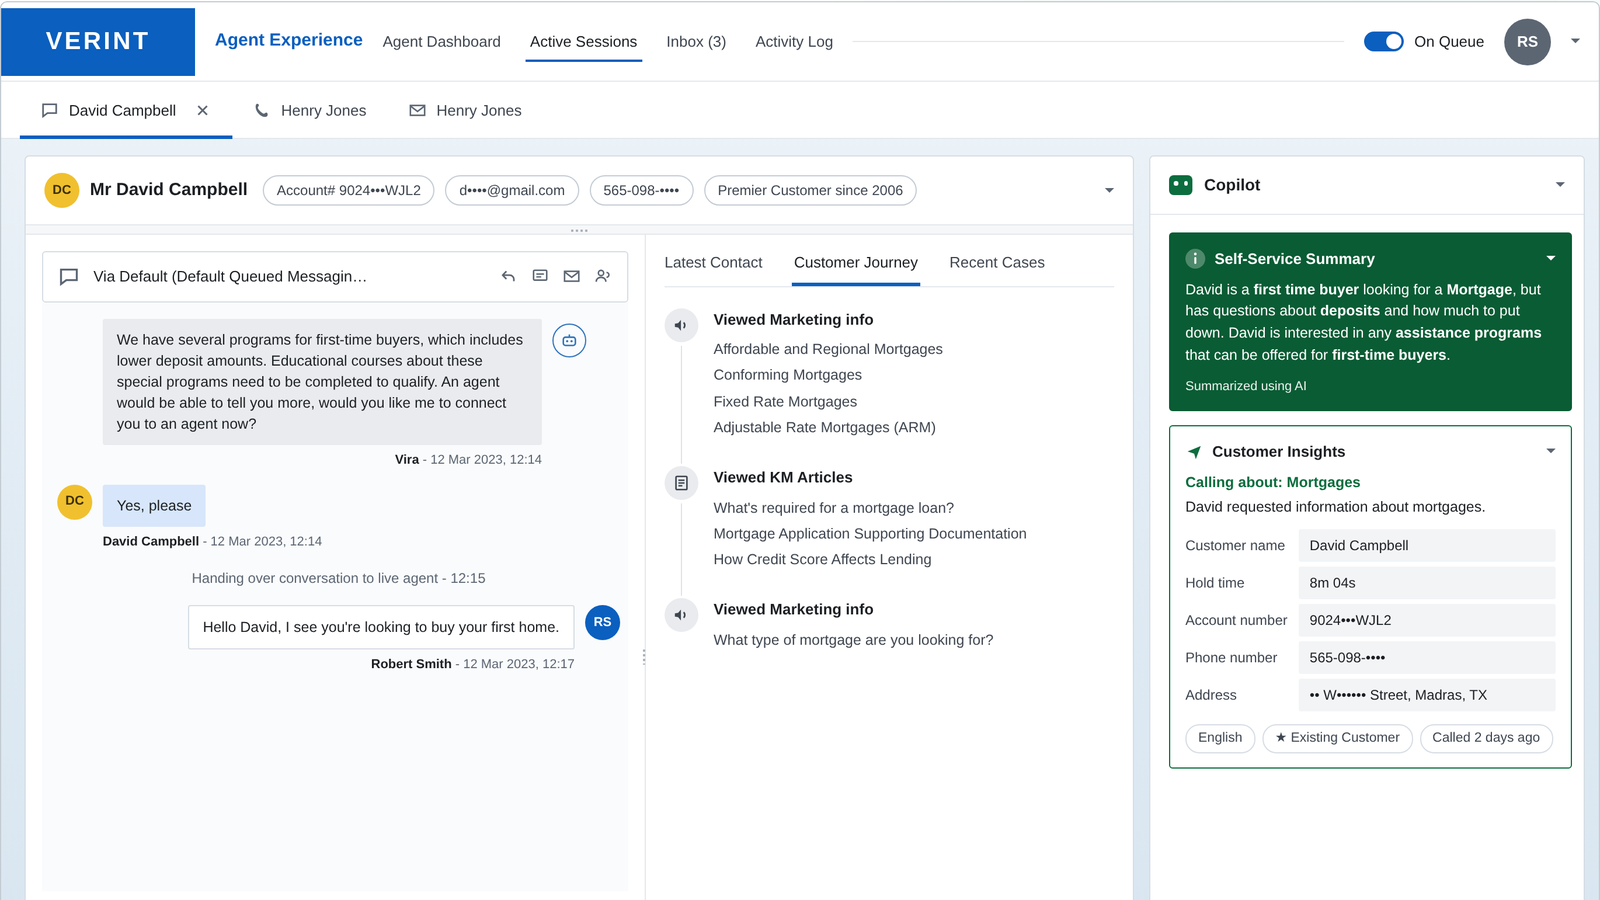
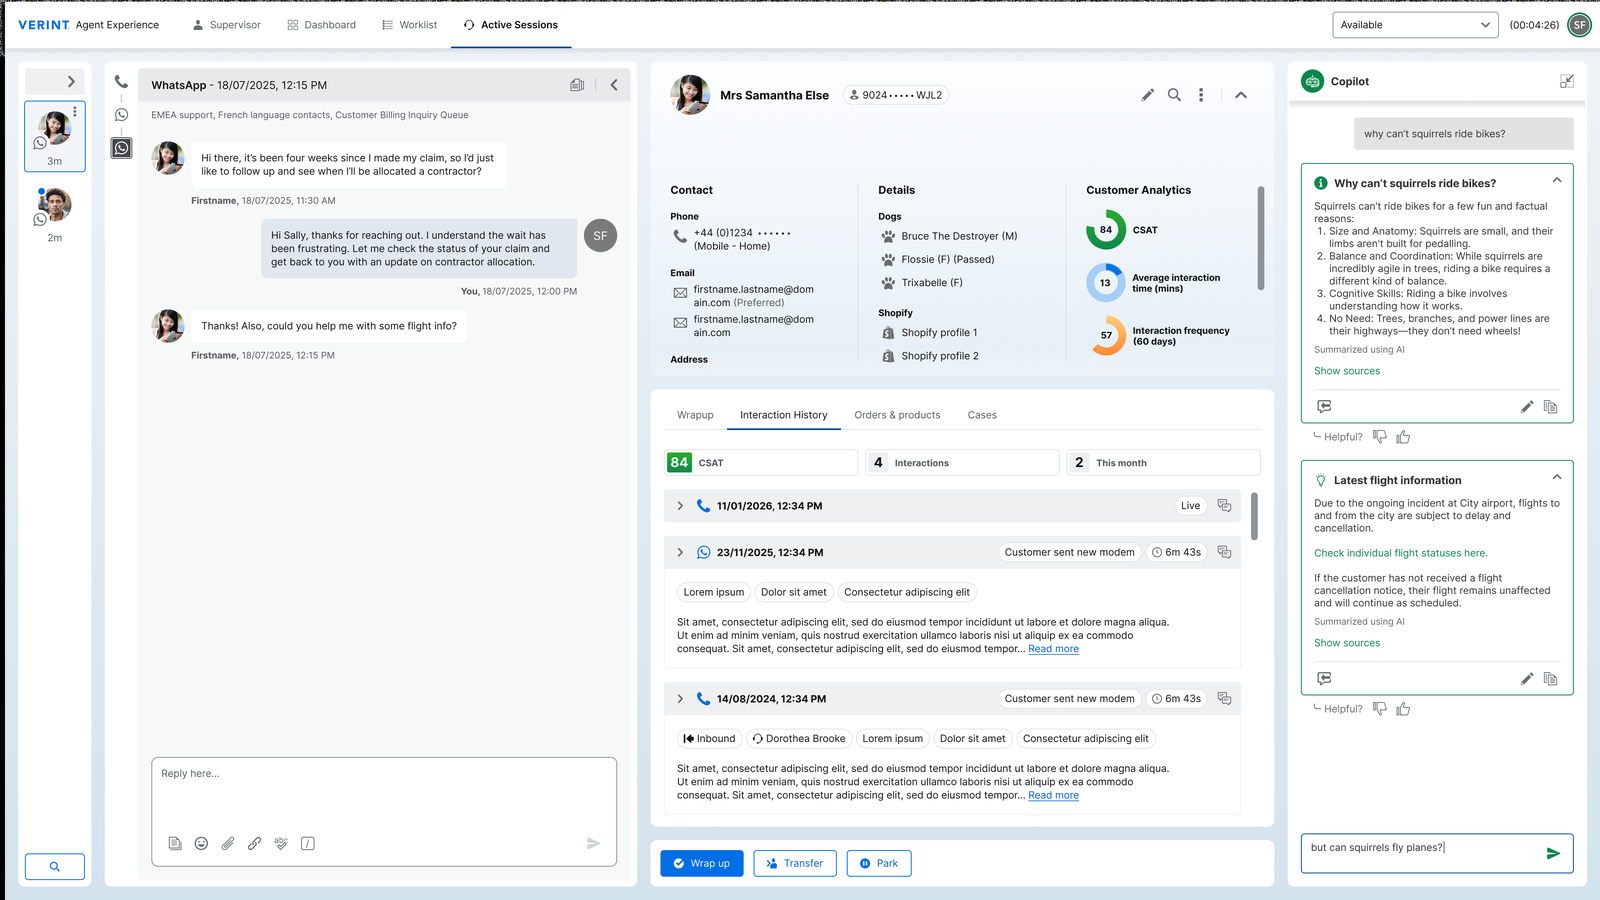
Copilot: Ori's shipped screenshot on the Shipped side; labels in sentence case
Shipped side is Ori's export of the shipped desktop, masked: account number,
phone number, and the test note under the customer name removed. Replaces
the player still used in e477504. Caption and alt text back to describing
that screen.

Labels read "Hackathon" and "Shipped" as written instead of all caps:
text-transform none, no tracking, 12px/700, page-local.

The address mask in the player's Customer Insights card stays.

Claude-Session: https://claude.ai/code/session_01UR5wgWCykGrjr29FfUPuRZ

diff --git a/cases/copilot/index.html b/cases/copilot/index.html
@@ -41,8 +41,8 @@
   }
 }
 </script>
-<link rel="stylesheet" href="../../src/tokens.css?v=202609301108"/>
-<link rel="stylesheet" href="../shared/case-study.css?v=202609301108"/>
+<link rel="stylesheet" href="../../src/tokens.css?v=202609301118"/>
+<link rel="stylesheet" href="../shared/case-study.css?v=202609301118"/>
 <script>try{if(localStorage.getItem('ori-theme')==='dark')document.documentElement.setAttribute('data-theme','dark')}catch(e){}
 if(window.self!==window.top){var _s=document.createElement('style');_s.textContent='*{cursor:none!important}';document.head.appendChild(_s);}</script>
 <style>
@@ -73,6 +73,10 @@ if(window.self!==window.top){var _s=document.createElement('style');_s.textConte
 .cmp-wrapup .cmp-label{top:0}
 .cmp-wrapup .cmp-label-a{left:0}
 .cmp-wrapup .cmp-label-b{right:0}
+/* "Hackathon" and "Shipped" as written, not all caps: Ori's call. The shared
+   label is 10px uppercase with tracking; sentence case needs neither the
+   tracking nor the small size to read as a label. */
+.cmp-wrapup .cmp-label{text-transform:none;letter-spacing:0;font-size:12px;font-weight:700}
 
 /* Inside a section the figure's own 26px is the gap; the seam's 22px on top
    of it would make this the one figure on the page set further off its text. */
@@ -476,14 +480,10 @@ if(window.self!==window.top){var _s=document.createElement('style');_s.textConte
            messaging handle and date of birth, and the test note under the
            customer name removed. Sources were Ori's exports of Sept 30.
 
-           SHIPPED SIDE (Sept 30): a still of the player below at step 5, the
-         handover, captured at its native 1370x898 at 2x and cut to 16:9 by
-         trimming the empty reply box at the bottom. The player is rebuilt
-         from the shipped Figma frames and plays the same David Campbell
-         mortgage conversation as the hackathon screenshot, so both halves
-         show the same moment: the hackathon's Chat Summary against the
-         shipped Self-Service Summary and Customer Insights. The raw shipped
-         export Ori sent was not used; its Copilot panel held test content.
+           SHIPPED SIDE: Ori's export of the shipped agent desktop (Sept 30),
+         masked before use: account number and phone number, and the test
+         note under the customer name ("This customer is blind!!!" plus lorem
+         ipsum) removed. Ori chose it over a still of the player below.
          -->
       <figure class="cs-media cmp-fig">
         <div class="cmp cmp-wrapup" id="cmp-wrapup" data-cmp-unit="hackathon">
@@ -499,7 +499,7 @@ if(window.self!==window.top){var _s=document.createElement('style');_s.textConte
                   <source srcset="images/copilot-shipped.webp" type="image/webp"/>
                   <img src="images/copilot-shipped.png" width="1600" height="900"
                        loading="lazy" decoding="async"
-                       alt="Shipped design at the same handover moment: the chat on the left, the customer journey in the middle, and the Copilot panel on the right with a Self-Service Summary of the bot conversation and a Customer Insights card showing who is calling and why."/>
+                       alt="Shipped design of the agent desktop: the chat on the left, the customer profile and interaction history in the middle, and the Copilot panel on the right answering the agent's questions in cards, each with sources, a helpful rating and a box to ask more."/>
                 </picture>
               </div>
               <!-- clipped layer: HACKATHON, occupies the left of the seam -->
@@ -523,7 +523,7 @@ if(window.self!==window.top){var _s=document.createElement('style');_s.textConte
             </div>
           </div>
         </div>
-        <figcaption>The same handover, as designed in the hackathon and as shipped. Drag across to see either in full.</figcaption>
+        <figcaption>From the hackathon to the shipped product. Drag across to see either in full.</figcaption>
       </figure>
     </div>
 
@@ -758,7 +758,7 @@ if(window.self!==window.top){var _s=document.createElement('style');_s.textConte
   </svg>
 </button>
 
-<script src="../shared/case-study.js?v=202609301108" defer></script>
+<script src="../shared/case-study.js?v=202609301118" defer></script>
 <script>
 (function(){
   var stage = document.getElementById('cpStage'),

diff --git a/index.html b/index.html
@@ -417,7 +417,7 @@
     </div>
     <span class="wt">Verint Design System - Case Study</span>
   </div>
-  <iframe class="proj-iframe" allow="fullscreen" src="cases/lux/index.html?v=202609301108" title="Verint Design System 2.0 Case Study" loading="lazy"></iframe>
+  <iframe class="proj-iframe" allow="fullscreen" src="cases/lux/index.html?v=202609301118" title="Verint Design System 2.0 Case Study" loading="lazy"></iframe>
 </div>
 
 <!-- My Verint: case study -->
@@ -429,7 +429,7 @@
     </div>
     <span class="wt">My Verint - Case Study</span>
   </div>
-  <iframe class="proj-iframe" allow="fullscreen" src="cases/myverint/index.html?v=202609301108" title="My Verint Case Study" loading="lazy"></iframe>
+  <iframe class="proj-iframe" allow="fullscreen" src="cases/myverint/index.html?v=202609301118" title="My Verint Case Study" loading="lazy"></iframe>
 </div>
 
 <!-- Verint Copilot: case study -->
@@ -441,7 +441,7 @@
     </div>
     <span class="wt">Agent Copilot - Case Study</span>
   </div>
-  <iframe class="proj-iframe" allow="fullscreen" src="cases/copilot/index.html?v=202609301108" title="Agent Copilot Case Study" loading="lazy"></iframe>
+  <iframe class="proj-iframe" allow="fullscreen" src="cases/copilot/index.html?v=202609301118" title="Agent Copilot Case Study" loading="lazy"></iframe>
 </div>
 
 <!-- LUX Plugins: case study -->
@@ -453,7 +453,7 @@
     </div>
     <span class="wt">LUX Plugins - Case Study</span>
   </div>
-  <iframe class="proj-iframe" allow="fullscreen" src="cases/plugins/index.html?v=202609301108" title="LUX Plugins Case Study" loading="lazy"></iframe>
+  <iframe class="proj-iframe" allow="fullscreen" src="cases/plugins/index.html?v=202609301118" title="LUX Plugins Case Study" loading="lazy"></iframe>
 </div>
 
 <!-- Supervisor Hub: placeholder -->
@@ -832,7 +832,7 @@
     <span class="wt">Verint Design System - Component Viewer</span>
     <div class="wrc"></div>
   </div>
-  <iframe class="proj-iframe" allow="fullscreen" src="cases/lux/viewer.html?v=202609301108" title="Verint Design System Component Viewer" loading="lazy"></iframe>
+  <iframe class="proj-iframe" allow="fullscreen" src="cases/lux/viewer.html?v=202609301118" title="Verint Design System Component Viewer" loading="lazy"></iframe>
 </div>
 
 <!-- ══════════ APP SHELL ══════════ -->

diff --git a/cases/lux/index.html b/cases/lux/index.html
@@ -18,8 +18,8 @@
 <meta name="twitter:description" content="How Ori Cohen built Verint's enterprise design system from scratch — one language for 40+ products and 10k+ users."/>
 <meta name="twitter:image" content="https://oricohen.co/cases/lux/images/og-image.png"/>
 <meta name="author" content="Ori Cohen"/>
-<link rel="stylesheet" href="../../src/tokens.css?v=202609301108"/>
-<link rel="stylesheet" href="../shared/case-study.css?v=202609301108"/>
+<link rel="stylesheet" href="../../src/tokens.css?v=202609301118"/>
+<link rel="stylesheet" href="../shared/case-study.css?v=202609301118"/>
 <!-- Hide default cursor when embedded in the portfolio iframe -->
 <script>try{if(localStorage.getItem('ori-theme')==='dark')document.documentElement.setAttribute('data-theme','dark')}catch(e){}
 if(window.self!==window.top){var _s=document.createElement('style');_s.textContent='*{cursor:none!important}';document.head.appendChild(_s);}</script>
@@ -767,7 +767,7 @@ if(window.self!==window.top){var _s=document.createElement('style');_s.textConte
       <figure class="cs-media">
       <!-- The variables browser. Replaces the component-library screenshot:
            the same claim, but checkable. -->
-      <div class="vb-shell" data-dv="202609301108">
+      <div class="vb-shell" data-dv="202609301118">
         <div class="vb" id="vb" role="group"
              aria-label="LUX 2.0 variable library, browsable">
           <div class="vb-side">
@@ -999,7 +999,7 @@ if(window.self!==window.top){var _s=document.createElement('style');_s.textConte
   </svg>
 </button>
 
-<script src="../shared/case-study.js?v=202609301108" defer></script>
+<script src="../shared/case-study.js?v=202609301118" defer></script>
 <script>
 /* The seam itself is driven by cases/shared/case-study.js, which wires every
    .cmp on the page. What is left here is the token hotspots, which are

diff --git a/cases/myverint/index.html b/cases/myverint/index.html
@@ -18,8 +18,8 @@
 <meta name="author" content="Ori Cohen"/>
 <meta name="twitter:title" content="My Verint - Case Study - Ori Cohen"/>
 <meta name="twitter:description" content="How Ori Cohen redesigned My Verint - merging two disconnected mobile apps into a unified, AI-powered experience for 10,000+ contact center employees."/>
-<link rel="stylesheet" href="../../src/tokens.css?v=202609301108"/>
-<link rel="stylesheet" href="../shared/case-study.css?v=202609301108"/>
+<link rel="stylesheet" href="../../src/tokens.css?v=202609301118"/>
+<link rel="stylesheet" href="../shared/case-study.css?v=202609301118"/>
 <script>try{if(localStorage.getItem('ori-theme')==='dark')document.documentElement.setAttribute('data-theme','dark')}catch(e){}
 if(window.self!==window.top){var _s=document.createElement('style');_s.textContent='*{cursor:none!important}';document.head.appendChild(_s);}</script>
 <style>
@@ -537,7 +537,7 @@ if(window.self!==window.top){var _s=document.createElement('style');_s.textConte
   </svg>
 </button>
 
-<script src="../shared/case-study.js?v=202609301108" defer></script>
+<script src="../shared/case-study.js?v=202609301118" defer></script>
 <script>
 /* "The Design" tabs - opacity crossfade only.
    Adopted from the original implementation: every video runs continuously

diff --git a/cases/plugins/index.html b/cases/plugins/index.html
@@ -41,8 +41,8 @@
   }
 }
 </script>
-<link rel="stylesheet" href="../../src/tokens.css?v=202609301108"/>
-<link rel="stylesheet" href="../shared/case-study.css?v=202609301108"/>
+<link rel="stylesheet" href="../../src/tokens.css?v=202609301118"/>
+<link rel="stylesheet" href="../shared/case-study.css?v=202609301118"/>
 <script>try{if(localStorage.getItem('ori-theme')==='dark')document.documentElement.setAttribute('data-theme','dark')}catch(e){}
 if(window.self!==window.top){var _s=document.createElement('style');_s.textContent='*{cursor:none!important}';document.head.appendChild(_s);}</script>
 <style>
@@ -588,7 +588,7 @@ if(window.self!==window.top){var _s=document.createElement('style');_s.textConte
   </svg>
 </button>
 
-<script src="../shared/case-study.js?v=202609301108" defer></script>
+<script src="../shared/case-study.js?v=202609301118" defer></script>
 
 <script>
 /* ══ The reel ═══════════════════════════════════════════════════════════════

diff --git a/cases/agent-factory/index.html b/cases/agent-factory/index.html
@@ -14,8 +14,8 @@
 <meta property="og:url" content="https://oricohen.co/cases/agent-factory/"/>
 <meta property="og:image" content="https://oricohen.co/cases/agent-factory/images/og-image.jpg"/>
 <meta name="twitter:card" content="summary_large_image"/>
-<link rel="stylesheet" href="../../src/tokens.css?v=202609301108"/>
-<link rel="stylesheet" href="../shared/case-study.css?v=202609301108"/>
+<link rel="stylesheet" href="../../src/tokens.css?v=202609301118"/>
+<link rel="stylesheet" href="../shared/case-study.css?v=202609301118"/>
 <script>if(window.self!==window.top){var _s=document.createElement('style');_s.textContent='*{cursor:none!important}';document.head.appendChild(_s);}</script>
 <style>
 /* -- Project accent: Agent Factory = Verint blue ------------------------- */
@@ -118,6 +118,6 @@
   </main><!-- /cs-content -->
 </div><!-- /cs-body -->
 
-<script src="../shared/case-study.js?v=202609301108"></script>
+<script src="../shared/case-study.js?v=202609301118"></script>
 </body>
 </html>
